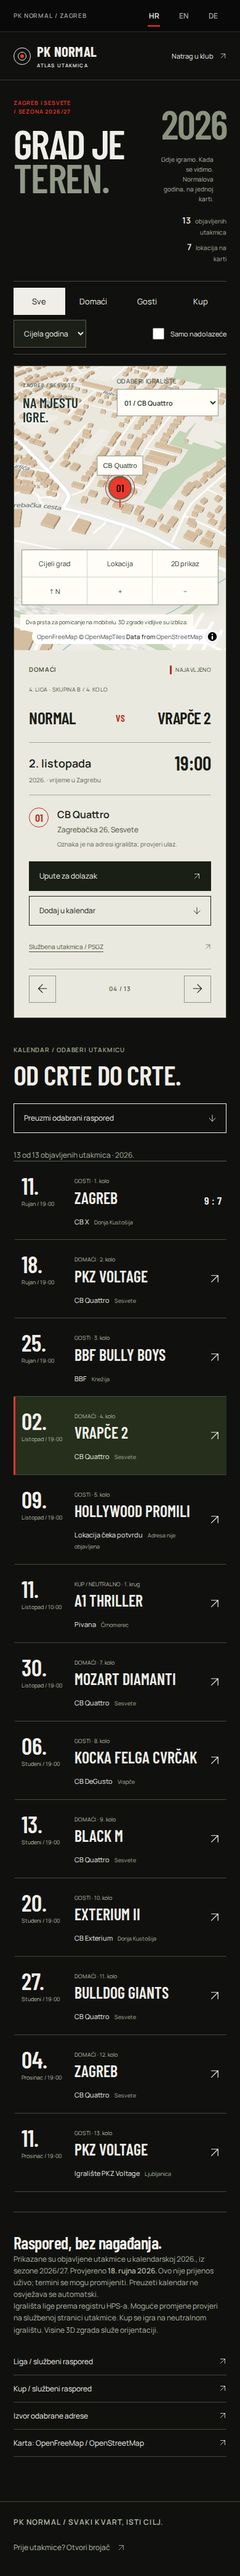
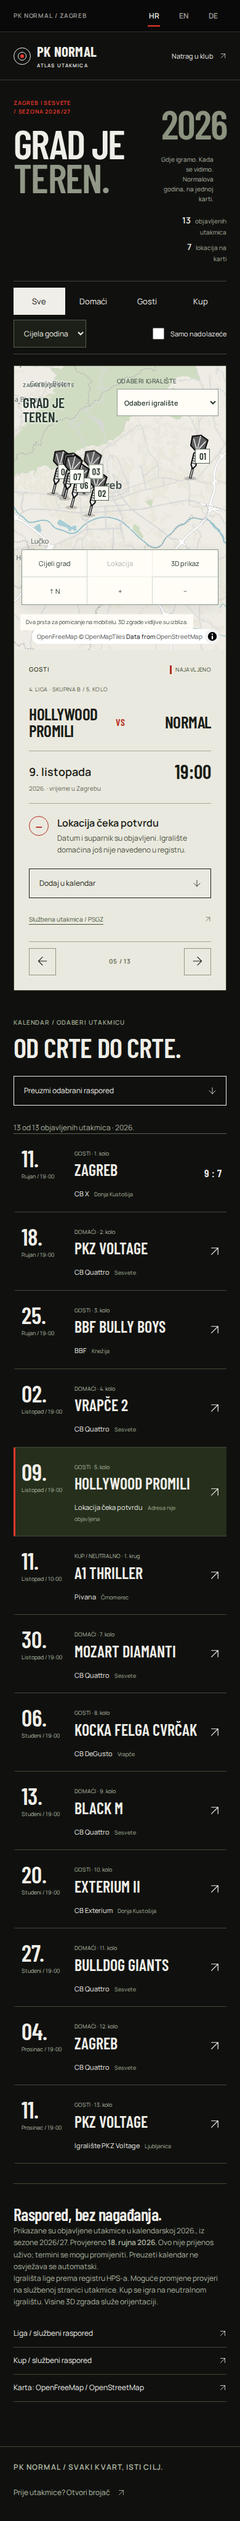
Update club contact, dart map markers and virtual stake limits

Changed region(s): [[0.0308, 0.0, 0.9538, 0.9951], [0.4615, 0.0311, 0.5231, 0.0622]]

diff --git a/src/shop/products.ts b/src/shop/products.ts
@@ -1,18 +1,18 @@
 // Design proposals, not factual product specifications or an available inventory.
-export const categories = ['Sve', 'Za nositi', 'Za crtu', 'Izvan igre'] as const;
+export const categories = ['Sve', 'Za nositi', 'Za igru', 'Izvan igre'] as const;
 export type Category = typeof categories[number];
 export const products = [
   { id: 'tee', category: 'Za nositi', name: 'Normal uniforma', type: 'Oversized majica', line: 'Dress code: svoj đir.', description: 'Isprana crna, veliki natpis i mali crveni cilj. Ideja za majicu koja ide na trening i ostaje na tebi poslije.' },
   { id: 'robe', category: 'Izvan igre', name: 'Double out', type: 'Ogrtač + papuče', line: 'Iz igre. U ogrtač.', description: 'Crni frotir, crveni rub i klupski vez. Koncept kompleta za ozbiljno neozbiljan oporavak na kauču.' },
   { id: 'calendar', category: 'Izvan igre', name: 'Vruća sezona / 2027', type: 'Godišnji kalendar', line: 'Dvanaest mjeseci. Malo manje dresa.', description: 'Razigran, seksi kalendar u sportskom editorijalnom stilu. AI prikaz izmišljenog odraslog modela, ne člana kluba. Stvarno izdanje tražilo bi dobrovoljne modele i njihovu suglasnost.' },
   { id: 'hoodie', category: 'Za nositi', name: 'Produžeci', type: 'Hoodie', line: 'Još jednu. Pa doma.', description: 'Crna majica s kapuljačom i diskretnim klupskim potpisom. Za hladan put kući nakon vrućeg meča.' },
-  { id: 'darts', category: 'Za crtu', name: 'Tri razloga', type: 'Pikado putni set', line: 'Tvoj mali arsenal.', description: 'Vizija putne kutije sa strelicama, rezervnim perima i ručnikom. Oblik, težina i sadržaj tek bi se definirali za proizvodnju.' },
+  { id: 'darts', category: 'Za igru', name: 'Tri razloga', type: 'Pikado putni set', line: 'Tvoj mali arsenal.', description: 'Vizija putne kutije sa strelicama, rezervnim perima i ručnikom. Oblik, težina i sadržaj tek bi se definirali za proizvodnju.' },
   { id: 'mug', category: 'Izvan igre', name: 'Prva runda', type: 'Šalica + podmetač', line: 'Prvo kava. Onda preciznost.', description: 'Crna šalica, crvena unutrašnjost i podmetač u obliku mete. Mali jutarnji ritual s velikim klupskim slovima.' },
   { id: 'tote', category: 'Za nositi', name: 'Sve nosim', type: 'Platnena torba', line: 'Za opremu. I usputni kruh.', description: 'Prirodno platno, crne ručke i tipografija koju ne možeš promašiti. Klupska torba za sasvim normalne obaveze.' },
   { id: 'candle', category: 'Izvan igre', name: 'Mirna ruka', type: 'Mirisna svijeća', line: 'Upali fokus. Ugasi dramu.', description: 'Koncept svijeće u crnom staklu za atmosferu nakon meča. Zamišljeni miris: cedar i crni papar. Miris i sastav nisu potvrđeni.' },
-  { id: 'socks', category: 'Za nositi', name: 'Čvrst stav', type: 'Sportske čarape', line: 'Obje noge iza crte.', description: 'Svijetle rebraste čarape s crvenom linijom i klupskim natpisom. Diskretan znak da i stopala igraju za ekipu.' },
+  { id: 'socks', category: 'Za nositi', name: 'Čvrst stav', type: 'Sportske čarape', line: 'Stabilno do zadnjeg bacanja.', description: 'Svijetle rebraste čarape s crvenom linijom i klupskim natpisom. Diskretan znak da i stopala igraju za ekipu.' },
   { id: 'cap', category: 'Za nositi', name: 'Glava u igri', type: 'Šilterica', line: 'Fokus pod šiltom.', description: 'Isprana crna šilterica s bijelim vezom i crvenim detaljem. Minimalan dizajn za maksimalno često nošenje.' },
   { id: 'umbrella', category: 'Izvan igre', name: 'Kiša? Normalno.', type: 'Kišobran', line: 'Promaši lokvu.', description: 'Crna kupola, radijalne linije i klupski potpis. Ideja za gostovanja na kojima prognoza nije na našoj strani.' },
-  { id: 'mat', category: 'Izvan igre', name: 'Iza crte, molim', type: 'Otirač', line: 'Kućni teren počinje ovdje.', description: 'Otirač zamišljen kao linija bacanja. Za ulaz koji odmah daje do znanja kakva ekipa živi unutra.' },
+  { id: 'mat', category: 'Izvan igre', name: 'Dobro došli u ekipu', type: 'Otirač', line: 'Kućni teren počinje ovdje.', description: 'Otirač zamišljen kao linija bacanja. Za ulaz koji odmah daje do znanja kakva ekipa živi unutra.' },
 ] satisfies { id: string; category: Category; name: string; type: string; line: string; description: string }[];
 export type Product = typeof products[number];

diff --git a/src/odds/Odds.tsx b/src/odds/Odds.tsx
@@ -25,13 +25,17 @@ export default function Odds() {
   const [message, setMessage] = useState<{ key: string; values?: Record<string, string | number> }>({ key: '' });
   useEffect(()=>{try{localStorage.setItem(SAVE_KEY,JSON.stringify(game));}catch{setStorageError(true);}},[game]);
   const amount = Number(stake);
-  const valid = Number.isInteger(amount) && amount >= 10 && amount <= 100 && amount <= game.balance;
+  const valid = Number.isSafeInteger(amount) && amount >= 10 && amount <= game.balance;
   function simulate() {
     if (!pick || !valid) return;
     const random = crypto.getRandomValues(new Uint32Array(1))[0] / 4294967296;
-    const next = play(game,pick,amount,random,`${Date.now()}-${crypto.getRandomValues(new Uint32Array(1))[0]}`);
-    setGame(next); setPick(null);
-    setMessage(next.history[0].won ? { key: "Simulacija: pogodak! Povrat {0} bodova, uključujući ulog.", values: {0: next.history[0].payout} } : { key: "Simulacija: promašaj. Uloženo {0} bodova.", values: {0: amount} });
+    try {
+      const next = play(game,pick,amount,random,`${Date.now()}-${crypto.getRandomValues(new Uint32Array(1))[0]}`);
+      setGame(next); setPick(null);
+      setMessage(next.history[0].won ? { key: "Simulacija: pogodak! Povrat {0} bodova, uključujući ulog.", values: {0: next.history[0].payout} } : { key: "Simulacija: promašaj. Uloženo {0} bodova.", values: {0: amount} });
+    } catch (error) {
+      setMessage({ key: error instanceof Error ? error.message : "Neispravna procjena." });
+    }
   }
   return (
     <main className="odds-page" id="main">
@@ -67,8 +71,8 @@ export default function Odds() {
           <p className="mono">{t("SAMO VIRTUALNI BODOVI")}</p><h2 id="odds-slip-title">{t("Tvoj dvoboj.")}</h2>
           <p className="odds-balance">{game.balance.toLocaleString(locale)} <span>{t("bodova")}</span></p>
           {pick ? <><p className="odds-slip-pair">{pick.player}<br /><span>{t("protiv ")}{pick.opponent}</span></p><p className="odds-pick">{t("Tvoj izbor: ")}<strong>{pick.side==='home'?pick.player:pick.opponent}</strong><br />{t("Koeficijent ")}{fmt(pick.odds)}</p></> : <p className="odds-slip-hint">{t("Odaberi koeficijent uz igrača. Jedan dvoboj, jedna prognoza.")}</p>}
-          <label htmlFor="odds-stake">{t("Ulog u bodovima (10–100)")}</label><input id="odds-stake" type="number" min="10" max={Math.min(100,game.balance)} step="1" inputMode="numeric" value={stake} onChange={e=>setStake(e.target.value)} aria-invalid={!valid} aria-describedby="odds-stake-note" />
-          <p id="odds-stake-note" className="odds-note">{!valid ? t("Unesi cijeli broj od 10 do 100, najviše do svog salda.") : pick ? t("Mogući povrat: {0} bodova (s ulogom).", {0: Math.round(amount*pick.odds)}) : t("Početni saldo: 1.000 bodova.")}</p>
+          <label htmlFor="odds-stake">{t("Ulog u bodovima (najmanje 10)")}</label><input id="odds-stake" type="number" min="10" max={game.balance} step="1" inputMode="numeric" value={stake} onChange={e=>setStake(e.target.value)} aria-invalid={!valid} aria-describedby="odds-stake-note" />
+          <p id="odds-stake-note" className="odds-note">{!valid ? t("Unesi cijeli broj od najmanje 10, najviše do svog salda.") : pick ? t("Mogući povrat: {0} bodova (s ulogom).", {0: Math.round(amount*pick.odds)}) : t("Početni saldo: 1.000 bodova.")}</p>
           <button className="odds-play" disabled={!pick || !valid} onClick={simulate}>{t("Simuliraj dvoboj ")}<Arrow /></button>
           <p className="odds-note">{t("Ishod se nasumično izvlači prema prikazanoj procjeni. Ne čeka se stvarna utakmica. Izračun koristi puni koeficijent; prikaz je zaokružen.")}</p>
           <p role="status" className="odds-status">{t(message.key, message.values)}</p>

diff --git a/src/shop/Shop.tsx b/src/shop/Shop.tsx
@@ -30,7 +30,7 @@ export default function Shop() {
     <a className="skip-link" href="#merch-main" onClick={event => { event.preventDefault(); document.getElementById("merch-main")?.focus(); }}>{t('Preskoči na sadržaj')}</a>
     <header className="merch-header"><a href="#merch">← {t('Natrag u klub')}</a><a href="#shop" className="merch-brand">PK NORMAL<span>MERCHSHOP</span></a><button onClick={() => setSavedOnly(!savedOnly)} aria-pressed={savedOnly}>{t('Moj izbor')} <span>{saved.length.toString().padStart(2, '0')}</span></button></header>
     <main id="merch-main" tabIndex={-1}>
-      <section className="merch-hero" aria-labelledby="merch-title"><div className="merch-intro"><p className="mono">{t('KOLEKCIJA U NASTAJANJU / 001')}</p><h1 id="merch-title">{t('SASVIM')}<br /><em>{t('NENORMALAN.')}</em><br />MERCH.</h1><p>{t('Za crtu. Za kauč. Za sve između.')}<br />{t('Klupski duh koji ne ostaje u klubu.')}</p><button className="merch-cta" onClick={() => { const section = document.getElementById("merch-collection"); section?.scrollIntoView(); section?.focus({ preventScroll: true }); }}>{t('Istraži kolekciju')} <span aria-hidden="true">↓</span></button></div><figure className="merch-cover"><img src={import.meta.env.BASE_URL + "images/merch/robe-cutout.webp"} width="960" height="960" alt={t('Double out — koncept crnog klupskog ogrtača i papuča')} fetchPriority="high" /><figcaption><span>01 / AFTER HOURS</span><span>{t('Iz igre. U ogrtač.')}</span></figcaption></figure></section>
+      <section className="merch-hero" aria-labelledby="merch-title"><div className="merch-intro"><p className="mono">{t('KOLEKCIJA U NASTAJANJU / 001')}</p><h1 id="merch-title">{t('SASVIM')}<br /><em>{t('NENORMALAN.')}</em><br />MERCH.</h1><p>{t('Za igru. Za kauč. Za sve između.')}<br />{t('Klupski duh koji ne ostaje u klubu.')}</p><button className="merch-cta" onClick={() => { const section = document.getElementById("merch-collection"); section?.scrollIntoView(); section?.focus({ preventScroll: true }); }}>{t('Istraži kolekciju')} <span aria-hidden="true">↓</span></button></div><figure className="merch-cover"><img src={import.meta.env.BASE_URL + "images/merch/robe-cutout.webp"} width="960" height="960" alt={t('Double out — koncept crnog klupskog ogrtača i papuča')} fetchPriority="high" /><figcaption><span>01 / AFTER HOURS</span><span>{t('Iz igre. U ogrtač.')}</span></figcaption></figure></section>
       <aside className="merch-notice"><span className="mono">{t('DOBRE IDEJE. JOŠ NE PROIZVODI.')}</span><p>{t('Ovo je koncept službenog PK Normal merchshopa. Svi prikazi su AI mockupovi; artikli, materijali i izvedbe su prijedlozi. Cijene, zalihe i datum prodaje još nisu određeni. Nema naručivanja ni naplate.')}</p></aside>
       <section id="merch-collection" tabIndex={-1} className="merch-collection" aria-labelledby="merch-collection-title"><div className="merch-collection-heading"><h2 id="merch-collection-title">{t('DOBAR ĐIR.')}<br /><span>{t('OD GLAVE DO PETE.')}</span></h2><p className="mono">12 {t('IDEJA / JEDNA EKIPA')}</p></div>
         <div className="merch-filter"><div role="group" aria-label={t('Kategorije proizvoda')}>{categories.map(item => <button key={item} aria-pressed={category === item} onClick={() => setCategory(item)}>{t(item)}</button>)}</div><p aria-live="polite">{shown.length} / 12 {savedOnly && `· ${t('Moj izbor')}`}</p></div>

diff --git a/src/App.tsx b/src/App.tsx
@@ -89,7 +89,7 @@ export default function App() {
             </h2>
             <div className="about-copy" data-reveal>
               <p className="lead">{t("Mi smo PK Normal.")}<br />{t("Zagrebačka ekipa s jasnim ciljem.")}</p>
-              <p>{t("Od ")}{t(club.admission)}{t(" dio smo Pikado saveza grada Zagreba. Za nas je pikado dobar razlog da se okupimo. I još bolji razlog da se uvijek vratimo za crtu.")}</p>
+              <p>{t("Od ")}{t(club.admission)}{t(" dio smo Pikado saveza grada Zagreba. Za nas je pikado dobar razlog da se okupimo. I još bolji razlog za novu partiju.")}</p>
               <a
                 className="text-link"
                 href={club.sources.admission}
@@ -231,7 +231,7 @@ export default function App() {
           <div className="odds-invite-copy"><p>{t("Naša ekipa protiv tvoje procjene. Usporedi učinak igrača, pogledaj simulirane koeficijente i odigraj virtualni dvoboj.")}</p><a className="text-link" id="dvoboji" href="#dvoboji">{t("Otvori dvoboje ")}<Arrow /></a><small>{t("Podaci saveza. Naš model. Samo virtualni bodovi.")}</small><noscript>{t("Za virtualne dvoboje uključi JavaScript.")}</noscript></div>
         </section>
         <section className="merch-invite section" id="merch" aria-labelledby="merch-invite-title">
-          <div><p className="mono">PK NORMAL / MERCHSHOP</p><h2 id="merch-invite-title">{t("NORMALNO.")}<br /><em>{t("ZA NOSITI.")}</em></h2><p>{t("Za crtu. Za kauč. Za sve između. Istraži 12 ideja za našu prvu merch kolekciju.")}</p><a className="text-link" id="shop" href="#shop">{t("Istraži kolekciju")} <Arrow /></a><small>{t("Koncept kolekcije · još nije u prodaji")}</small></div>
+          <div><p className="mono">PK NORMAL / MERCHSHOP</p><h2 id="merch-invite-title">{t("NORMALNO.")}<br /><em>{t("ZA NOSITI.")}</em></h2><p>{t("Za igru. Za kauč. Za sve između. Istraži 12 ideja za našu prvu merch kolekciju.")}</p><a className="text-link" id="shop" href="#shop">{t("Istraži kolekciju")} <Arrow /></a><small>{t("Koncept kolekcije · još nije u prodaji")}</small></div>
           <a href="#shop" tabIndex={-1} aria-hidden="true"><img src={import.meta.env.BASE_URL + "images/merch/robe-cutout.webp"} alt="" width="960" height="960" loading="lazy" /></a>
         </section>
         <Sponsors />
@@ -247,8 +247,8 @@ export default function App() {
             </h2>
             <a
               className="join-arrow"
-              href={club.phoneHref}
-              aria-label={t("Nazovi kapetana Rikarda")}
+              href={club.emailHref}
+              aria-label={t("Pošalji e-mail klubu")}
             >
               <Arrow />
             </a>
@@ -258,9 +258,9 @@ export default function App() {
               <strong>{t("Javi se. Krenimo od toga.")}</strong>
             </p>
             <div>
-              <span className="mono">{t("KAPETAN / RIKARD MILAŠINOVIĆ")}</span>
-              <a className="phone" href={club.phoneHref}>
-                {club.phone}
+              <span className="mono">{t("KLUPSKI KONTAKT")}</span>
+              <a className="club-email" href={club.emailHref}>
+                {club.email}
               </a>
             </div>
             <div className="venue">

diff --git a/src/atlas/atlas.css b/src/atlas/atlas.css
@@ -34,12 +34,8 @@
 .atlas-map-controls button:disabled { opacity:.4; cursor:not-allowed; }
 .atlas-map-help { position:absolute; left:16px; bottom:38px; background:#10140fdb; padding:6px 9px; margin:0; font-size:10px; color:#d1d5c8; max-width:calc(100% - 32px); pointer-events:none; }
 .atlas .maplibregl-ctrl-attrib { font-family:var(--body); font-size:10px; }
-.atlas-pin { border:0; background:none; padding:0 0 12px; min-width:44px; min-height:54px; cursor:pointer; overflow:visible; color:#10110f; }
+.atlas-pin { border:0; background:none; padding:0; width:64px; height:80px; min-width:44px; min-height:44px; cursor:pointer; overflow:visible; color:#10110f; }
 .atlas-pin[hidden] { display:none!important; }
-.atlas-pin > span { display:grid; place-items:center; width:38px; height:38px; margin:auto; background:#dddac8; border:2px solid #171c14; border-radius:50%; font:600 17px var(--display); box-shadow:0 3px 15px #0006; }
-.atlas-pin:after { content:''; position:absolute; bottom:1px; left:calc(50% - 1px); height:14px; width:2px; background:#dddac8; }
-.atlas-pin.selected > span { background:var(--color-accent); color:#090909; outline:1px solid #f7b9ac; outline-offset:4px; }
-.atlas-pin.selected:after { background:var(--color-accent); }
 .atlas-pin small { display:none; position:absolute; top:-31px; left:50%; transform:translateX(-50%); background:#0b100bea; color:#f1f2e8; padding:5px 9px; white-space:nowrap; font-size:11px; border:1px solid #545e43; }
 .atlas-pin.selected small,.atlas-pin:focus-visible small,.atlas-pin:hover small { display:block; }
 .atlas-pin:focus-visible { outline:2px solid white; outline-offset:5px; }
@@ -178,10 +174,7 @@
 .atlas-map-controls button:hover { background:#e1e8db; }
 .atlas-map-controls button:focus-visible,.atlas-venue-picker select:focus-visible { outline:2px solid #b52d21; outline-offset:2px; }
 .atlas-map-help { background:#fffdf6eb; color:#344239; bottom:30px; }
-.atlas-pin > span { background:#fffdf6; border-color:#536452; box-shadow:0 2px 8px #27372433; }
-.atlas-pin:after { background:#536452; }
 .atlas-pin small { background:#fffdf6; color:#25352e; border-color:#899589; box-shadow:0 2px 8px #27372418; }
-.atlas-pin.selected > span { outline-color:#9f261e; }
 .atlas-pin:focus-visible { outline-color:#9f261e; }
 @media(max-width:760px) {
  .atlas-map { height:460px; min-height:460px; }
@@ -201,3 +194,10 @@
  .atlas-map-controls button:nth-child(-n+3) { border-bottom:1px solid #d1d6cc; }
  .atlas-map-controls button:nth-child(3n) { border-right:0; }
 }
+
+/* The dart tip, not the label, is anchored to the venue coordinate. */
+.atlas-pin > img { display:block; width:64px; height:80px; filter:grayscale(1); }
+.atlas-pin.selected > img { filter:none; }
+.atlas-pin > span { position:absolute; top:28px; right:0; display:grid; place-items:center; width:24px; height:24px; background:#fffdf6; color:#25352e; border:1px solid #536452; font:600 15px var(--display); }
+.atlas-pin.selected > span { background:#ed382b; color:#090909; border-color:#090909; }
+.atlas-pin small { top:-26px; }

diff --git a/src/odds/engine.ts b/src/odds/engine.ts
@@ -22,18 +22,20 @@ export type Ticket = Pick & { id: string; stake: number; won: boolean; payout: n
 export type Game = { version: 1; balance: number; history: Ticket[] };
 export const newGame = (): Game => ({ version: 1, balance: 1000, history: [] });
 export function play(game: Game, pick: Pick, stake: number, random: number, id: string): Game {
-  if (!Number.isInteger(stake) || stake < 10 || stake > 100 || stake > game.balance) throw new Error('Ulog mora biti od 10 do 100 bodova i unutar tvog salda.');
+  if (!Number.isSafeInteger(stake) || stake < 10 || stake > game.balance) throw new Error('Ulog mora biti cijeli broj od najmanje 10 bodova i unutar tvog salda.');
   if (!Number.isFinite(random) || random < 0 || random >= 1 || !Number.isFinite(pick.probability) || pick.probability <= 0 || pick.probability >= 1 || Math.abs(pick.odds - 1/pick.probability) > .000001) throw new Error('Neispravna procjena.');
   const won = random < pick.probability;
   const payout = won ? Math.round(stake * pick.odds) : 0;
-  return { version: 1, balance: game.balance - stake + payout, history: [{ ...pick, id, stake, won, payout }, ...game.history].slice(0, 20) };
+  const balance = game.balance - stake + payout;
+  if (!Number.isSafeInteger(payout) || !Number.isSafeInteger(balance)) throw new Error('Broj bodova prelazi podržanu preciznost.');
+  return { version: 1, balance, history: [{ ...pick, id, stake, won, payout }, ...game.history].slice(0, 20) };
 }
 export function restore(raw: string | null): Game {
   try {
     const value = JSON.parse(raw || 'null');
-    if (value?.version !== 1 || !Number.isSafeInteger(value.balance) || value.balance < 0 || value.balance > 100000000 || !Array.isArray(value.history) || value.history.length > 20) return newGame();
+    if (value?.version !== 1 || !Number.isSafeInteger(value.balance) || value.balance < 0 || !Array.isArray(value.history) || value.history.length > 20) return newGame();
     for (const t of value.history) {
-      if (!['player','opponent','team','id'].every(k => typeof t[k] === 'string' && t[k].length > 0 && t[k].length < 200) || !['home','away'].includes(t.side) || typeof t.won !== 'boolean' || !Number.isInteger(t.stake) || t.stake < 10 || t.stake > 100 || !Number.isFinite(t.probability) || t.probability < .15-1e-9 || t.probability > .85+1e-9 || !Number.isFinite(t.odds) || Math.abs(t.odds-1/t.probability) > .000001 || t.payout !== (t.won ? Math.round(t.stake*t.odds) : 0)) return newGame();
+      if (!['player','opponent','team','id'].every(k => typeof t[k] === 'string' && t[k].length > 0 && t[k].length < 200) || !['home','away'].includes(t.side) || typeof t.won !== 'boolean' || !Number.isSafeInteger(t.stake) || t.stake < 10 || !Number.isFinite(t.probability) || t.probability < .15-1e-9 || t.probability > .85+1e-9 || !Number.isFinite(t.odds) || Math.abs(t.odds-1/t.probability) > .000001 || !Number.isSafeInteger(t.payout) || t.payout !== (t.won ? Math.round(t.stake*t.odds) : 0)) return newGame();
     }
     return value as Game;
   } catch { return newGame(); }

diff --git a/src/components/AtlasTeaser.tsx b/src/components/AtlasTeaser.tsx
@@ -6,7 +6,7 @@ export default function AtlasTeaser() {
 
  const project=([lng,lat]:[number,number])=>[(lng-15.887)/.23*500+30,200-(lat-45.78)/.07*180];
  return <a id="karta" className="atlas-teaser" href="#karta" aria-label={t("Otvori 3D kartu utakmica PK Normal za 2026.")}>
-  <div className="atlas-teaser-graphic" aria-hidden="true"><svg viewBox="0 0 560 240"><path d="M20 220H540M20 20V220M140 20V220M260 20V220M380 20V220M500 20V220M20 100H540" stroke="currentColor" opacity=".15" fill="none"/>{venues.map(v=>{const [x,y]=project(v.coordinates);return <g key={v.id} transform={'translate('+x+' '+y+')'}><circle r={v.id==='quattro'?14:6} fill={v.id==='quattro'?'#ed382b':'#d7d7c5'}/>{v.id==='quattro'&&<><circle r="24" fill="none" stroke="#ed382b" opacity=".5"/><text x="-22" y="-34" fill="#eeeee4" fontSize="13">NORMAL</text></>}</g>;})}<text x="24" y="43" fill="currentColor" fontSize="12" letterSpacing="3">ZAGREB / SESVETE</text></svg></div>
+  <div className="atlas-teaser-graphic" aria-hidden="true"><svg viewBox="0 0 560 240"><path d="M20 220H540M20 20V220M140 20V220M260 20V220M380 20V220M500 20V220M20 100H540" stroke="currentColor" opacity=".15" fill="none"/>{venues.map(v=>{const [x,y]=project(v.coordinates);return <g key={v.id} transform={'translate('+x+' '+y+')'}><image href={import.meta.env.BASE_URL+'dart-marker.svg'} x="-16" y="-38" width="32" height="40" style={{filter:v.id==='quattro'?'none':'grayscale(1)'}}/>{v.id==='quattro'&&<><circle r="24" fill="none" stroke="#ed382b" opacity=".5"/><text x="-22" y="-46" fill="#eeeee4" fontSize="13">NORMAL</text></>}</g>;})}<text x="24" y="43" fill="currentColor" fontSize="12" letterSpacing="3">ZAGREB / SESVETE</text></svg></div>
   <div className="atlas-teaser-copy"><span className="mono">{t("NOVO / ATLAS UTAKMICA 2026")}</span><h3>{t("GRAD JE TEREN.")}</h3><p>{fixtures.length}{t(" objavljenih utakmica. Datumi, suparnici i upute za dolazak na jednom mjestu.")}</p><span className="atlas-teaser-link">{t("Istraži 3D kartu ")}<Arrow /></span></div>
  </a>;
 }

diff --git a/tests/odds.spec.ts b/tests/odds.spec.ts
@@ -21,7 +21,16 @@ test('virtual ledger: deterministic payout, no overspending, bounded history and
  expect(win.balance).toBe(1020); expect(win.history[0].payout).toBe(40);
  const lose=play(win,pick,100,.9,'lose'); expect(lose.balance).toBe(920);
  expect(restore(JSON.stringify(lose))).toEqual(lose);
- for(const stake of [0,9,101,NaN,10.5]) expect(()=>play(newGame(),pick,stake,.2,'bad')).toThrow();
+ for (const stake of [101, 500, 1000]) {
+  const game = play(newGame(), pick, stake, .1, 'large');
+  expect(game.balance).toBe(1000 + stake);
+  expect(restore(JSON.stringify(game))).toEqual(game);
+ }
+ expect(play(newGame(), pick, 1000, .9, 'all-in').balance).toBe(0);
+ const large = play({...newGame(), balance: 100000001}, pick, 100000001, .1, 'large-save');
+ expect(restore(JSON.stringify(large))).toEqual(large);
+ expect(() => play({...newGame(), balance: Number.MAX_SAFE_INTEGER}, pick, Number.MAX_SAFE_INTEGER, .1, 'overflow')).toThrow();
+ for(const stake of [0,9,1001,NaN,Infinity,10.5,Number.MAX_SAFE_INTEGER+1]) expect(()=>play(newGame(),pick,stake,.2,'bad')).toThrow();
  expect(()=>play({...newGame(),balance:10},pick,20,.2,'bad')).toThrow();
  expect(()=>play(newGame(),pick,20,1,'bad')).toThrow();
  expect(restore('{broken')).toEqual(newGame());
@@ -44,7 +53,7 @@ test('all nine players, selection, play, refresh persistence, empty data and res
  await expect(page.locator('.odds-row')).toHaveCount(9);
  await expect(page.locator('.odds-player').filter({hasText:'Bez nastupa'})).toHaveCount(5);
  await page.locator('.odds-row').nth(1).getByRole('button').first().click();
- await page.getByLabel('Ulog u bodovima').fill('20');
+ await page.getByLabel('Ulog u bodovima').fill('1000');
  await page.getByRole('button',{name:'Simuliraj dvoboj'}).click();
  await expect(page.getByRole('status')).toContainText('Simulacija:');
  await expect(page.locator('.odds-history li')).toHaveCount(1);

diff --git a/tests/site.spec.ts b/tests/site.spec.ts
@@ -50,9 +50,9 @@ for (const [width, height] of [
     await expect(
       page.getByRole("heading", { name: "SVATKO SVOJ. ZAJEDNO NORMAL." }),
     ).toBeVisible();
-    await expect(page.locator(".phone")).toHaveAttribute(
+    await expect(page.locator(".club-email")).toHaveAttribute(
       "href",
-      "tel:+385913963623",
+      "mailto:pikadonormal@gmail.com",
     );
     const a = await page.locator(".hero-caption").boundingBox();
     const b = await page.locator(".hero-bottom").boundingBox();
@@ -130,7 +130,7 @@ test("WebGL failure preserves content and static visual", async ({ page }) => {
         (img: HTMLImageElement) => img.complete && img.naturalWidth > 0,
       ),
   ).toBeTruthy();
-  await expect(page.locator(".phone")).toBeVisible();
+  await expect(page.locator(".club-email")).toBeVisible();
 });
 test("no JavaScript still serves full content and poster", async ({
   browser,
@@ -142,7 +142,7 @@ test("no JavaScript still serves full content and poster", async ({
   const page = await context.newPage();
   await page.goto("/");
   await expect(page.getByRole("heading", { level: 1 })).toBeVisible();
-  await expect(page.locator(".phone")).toBeVisible();
+  await expect(page.locator(".club-email")).toBeVisible();
   await expect(page.locator(".scene-poster")).toBeVisible();
   await expect(page.locator(".roster a")).toHaveCount(7);
   await context.close();

diff --git a/src/atlas/CityMap.tsx b/src/atlas/CityMap.tsx
@@ -69,13 +69,14 @@ export default function CityMap({ selected, visibleVenues, onSelect }: Props) {
      for(const v of venues) {
        const button=document.createElement('button');button.type='button';button.className='atlas-pin';
        button.setAttribute('aria-label',t(v.name)+' · '+v.address);button.title=t(v.name);
+       const dart=document.createElement('img');dart.src=import.meta.env.BASE_URL+'dart-marker.svg';dart.alt='';dart.width=64;dart.height=80;button.append(dart);
        const num=document.createElement('span');num.textContent=v.number;button.append(num);
        const label=document.createElement('small');label.textContent=t(v.name);button.append(label);
        button.addEventListener('click',()=>latest.current.onSelect(v.id));
        button.hidden=!latest.current.visibleVenues.includes(v.id);
        button.classList.toggle('selected',v.id===latest.current.selected);
        button.setAttribute('aria-pressed',String(v.id===latest.current.selected));
-       const marker=new Marker({element:button,anchor:'bottom'}).setLngLat(v.coordinates).addTo(instance);
+       const marker=new Marker({element:button,anchor:'bottom',offset:[0,4]}).setLngLat(v.coordinates).addTo(instance);
        pins.current.push({id:v.id,marker,button});
      }
     } catch { if(!disposed)setStatus('error'); }

diff --git a/src/data/rhythm.ts b/src/data/rhythm.ts
@@ -50,7 +50,7 @@ export const rhythm = [
   },
   {
     "name": "Odlučni",
-    "text": "Kad staneš za crtu, stani iza svog izbora."
+    "text": "Svako bacanje je tvoj izbor."
   },
   {
     "name": "Samokritični",
@@ -158,7 +158,7 @@ export const rhythm = [
   },
   {
     "name": "Druželjubivi",
-    "text": "Razgovor se nastavlja iza crte."
+    "text": "Razgovor se nastavlja nakon igre."
   },
   {
     "name": "Mirni",
@@ -262,11 +262,11 @@ export const rhythm = [
   },
   {
     "name": "Samostalni",
-    "text": "Za crtom odluku donosiš sam."
+    "text": "O svom bacanju odlučuješ sam."
   },
   {
     "name": "Povezani",
-    "text": "Iza crte opet smo ekipa."
+    "text": "Nakon igre opet smo ekipa."
   },
   {
     "name": "Ponosni",
@@ -478,7 +478,7 @@ export const rhythm = [
   },
   {
     "name": "Sportski nastrojeni",
-    "text": "Za crtom ima mjesta za poštenu borbu."
+    "text": "U pikadu ima mjesta za poštenu borbu."
   },
   {
     "name": "Pedantni",
@@ -590,7 +590,7 @@ export const rhythm = [
   },
   {
     "name": "Bolji u pokušaju",
-    "text": "Važno je opet stati za crtu."
+    "text": "Važno je ponovno zaigrati."
   },
   {
     "name": "Najbolji zajedno",

diff --git a/src/sections/Sponsors.tsx b/src/sections/Sponsors.tsx
@@ -30,8 +30,8 @@ export default function Sponsors() {
         <div><p className="mono">{t("MJESTO I ZA VAŠ BREND")}</p><h3>{t("Budite dio ekipe.")}</h3></div>
         <div className="sponsors-invite-copy">
           <p>{t("Želite podržati PK Normal? Javite nam se i dogovorimo kako zajedno možemo doprinijeti klubu.")}</p>
-          <a className="text-link" href={club.phoneHref}>{t("Postani sponzor ")}<Arrow /></a>
-          <span className="sponsors-contact">{t("Nazovite nas · ")}{club.phone}</span>
+          <a className="text-link" href={club.emailHref}>{t("Postani sponzor ")}<Arrow /></a>
+          <span className="sponsors-contact">{t("Pišite nam · ")}{club.email}</span>
         </div>
       </div>
     </section>
